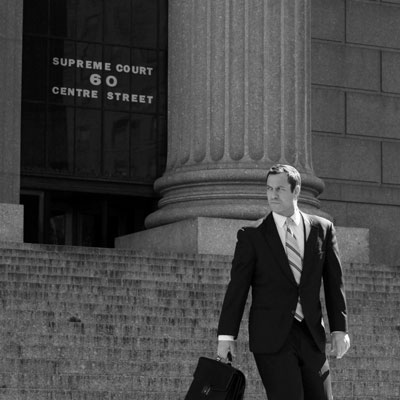
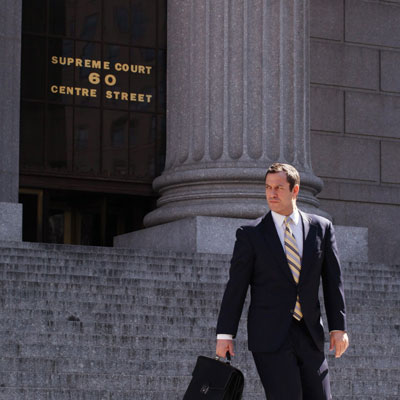
Home Feature Images

diff --git a/template-home-3.php b/template-home-3.php
@@ -35,7 +35,7 @@
               <a class="btn btn-primary horizontal-center" href="#">Get the Stories <span class="glyphicon glyphicon-arrow-right"></span></a>
             </div>
             <div class="feature-box-image">
-            	<img src="<?php bloginfo('template_url'); ?>/images/eric-richman-attorney-in-the-news-blue-cast.jpg" width="400" height="400" alt="Attorney In The News"/>
+            	<img src="<?php bloginfo('template_url'); ?>/images/eric-richman-attorney-in-the-news.jpg" width="400" height="400" alt="Attorney In The News"/>
             </div>
         </div>
         <div class="col-md-4 feature-box aspect-square">
@@ -45,7 +45,7 @@
               <a class="btn btn-primary horizontal-center" href="#">See the Action <span class="glyphicon glyphicon-arrow-right"></span></a>
             </div>
             <div class="feature-box-image">
-            	<img src="<?php bloginfo('template_url'); ?>/images/eric-richman-attorney-tv-appearances-blue-cast.jpg" width="400" height="400" />
+            	<img src="<?php bloginfo('template_url'); ?>/images/eric-richman-attorney-tv-appearances.jpg" width="400" height="400" />
             </div>
         </div>
         <div class="col-md-4 feature-box aspect-square">
@@ -55,7 +55,7 @@
               <a class="btn btn-primary horizontal-center" href="#">Read the Results <span class="glyphicon glyphicon-arrow-right"></span></a>
             </div>
             <div class="feature-box-image">
-            	<img src="<?php bloginfo('template_url'); ?>/images/eric-richman-attorney-success-stories-blue-cast.jpg" width="400" height="400" />
+            	<img src="<?php bloginfo('template_url'); ?>/images/eric-richman-attorney-success-stories.jpg" width="400" height="400" />
             </div>
         </div>
     </div>
